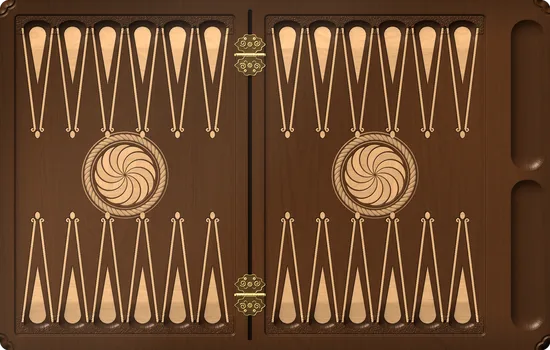
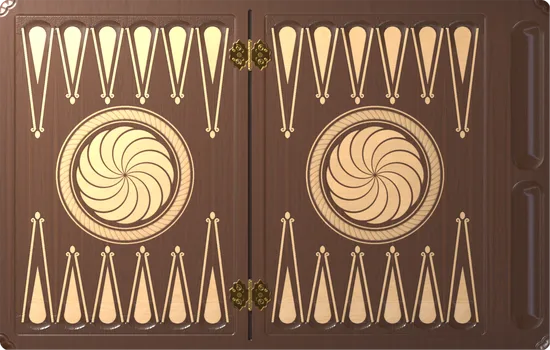
«Аревахач» из Blender в игре: вертикальные петли, крупные аревахачи, короткие средние пункты
Claude-Session: https://claude.ai/code/session_013vq6NREHT7txoK1nXmxN83

diff --git a/index.html b/index.html
@@ -327,7 +327,7 @@ svg#board{position:absolute;inset:0;width:100%;height:100%;display:block}
 (()=>{
 'use strict';
 const $=id=>document.getElementById(id);
-const APP_VERSION='19';   // совпадает с VERSION в sw.js; добавляется к адресам картинок, чтобы новые доски не брались из старого кэша
+const APP_VERSION='20';   // совпадает с VERSION в sw.js; добавляется к адресам картинок, чтобы новые доски не брались из старого кэша
 const NS='http://www.w3.org/2000/svg';
 const f2=v=>(+v).toFixed(1);
 

diff --git a/sw.js b/sw.js
@@ -1,5 +1,5 @@
 // Офлайн-кэш: страница, доски, звуки и шрифты кэшируются при установке.
-const V = '19';                 // = APP_VERSION в index.html
+const V = '20';                 // = APP_VERSION в index.html
 const VERSION = 'nardy-v' + V;
 const SHELL = [
   './',

diff --git a/tools/render_real.py b/tools/render_real.py
@@ -77,41 +77,41 @@ def rope_ring(cx, cy, r0, r1, n=44):
 
 
 def hinge(alb, h, metal, x, y):
-    """Литая бронзовая петля как на настоящих нардах: две фигурные пластины с волнистым краем,
-    литой рельеф (завитки, листья, розетка), винты со шлицем, ось-трубка с колпачками.
-    Выпуклое натёрто до блеска, в углублениях тёмная патина."""
+    """Литая бронзовая петля как на настоящих нардах: ось вертикально вдоль стыка половин, по обе стороны —
+    фигурные пластины с волнистым краем, литой рельеф (завитки, листья, розетка), винты со шлицем,
+    ось-трубка с колпачками. Выпуклое натёрто до блеска, в углублениях тёмная патина."""
     yy, xx = np.mgrid[0:H, 0:W] / S
     plate = np.zeros((H, W)); rel = np.zeros((H, W))
     for s in (-1, 1):
-        cy = y + s * 21
-        u, v = (xx - x) / 27, (yy - cy) / 19
-        r = np.hypot(u, v); a = np.arctan2(v, u)
+        cx = x + s * 21
+        u, v = (xx - cx) / 19, (yy - y) / 27
+        r = np.hypot(u, v); a = np.arctan2(u, v)
         edge = 1 + .07 * np.cos(a * 10) + .12 * np.cos(a * 2) ** 2          # фигурный волнистый край
-        pm = np.clip((edge - r) * 30, 0, 1) * (s * (yy - y) > 2.5)
+        pm = np.clip((edge - r) * 30, 0, 1) * (s * (xx - x) > 2.5)
         plate = np.maximum(plate, pm)
-        # рельеф: бортик по краю, розетка в центре, по бокам завитки с листьями
+        # рельеф: бортик по краю, розетка в центре, сверху и снизу завитки с листьями
         border = np.exp(-((edge - r - .07) / .035) ** 2) * pm
         ros = np.zeros((H, W))
         for k in range(8):
             ang = k * math.pi / 4
-            ros = np.maximum(ros, np.clip(1 - np.hypot((xx - x - 3.6 * math.cos(ang)) / 2.2, (yy - cy - 3.6 * math.sin(ang)) / 2.2), 0, 1))
-        ros = np.maximum(ros, np.clip(1 - np.hypot(xx - x, yy - cy) / 1.8, 0, 1))
+            ros = np.maximum(ros, np.clip(1 - np.hypot((xx - cx - 3.6 * math.cos(ang)) / 2.2, (yy - y - 3.6 * math.sin(ang)) / 2.2), 0, 1))
+        ros = np.maximum(ros, np.clip(1 - np.hypot(xx - cx, yy - y) / 1.8, 0, 1))
         scroll = np.zeros((H, W))
-        for sx in (-1, 1):
-            sp = spiral(x + sx * 14, cy + s * 2, 6.5, 1.5, (0 if sx > 0 else math.pi) + s * .6, -sx * s)
+        for sy in (-1, 1):
+            sp = spiral(cx + s * 2, y + sy * 14, 6.5, 1.5, (math.pi / 2 if sy > 0 else -math.pi / 2) + s * .6, sy * s)
             scroll = np.maximum(scroll, lines([sp], 1.6, aa=.5))
-            leaf = [(x + sx * (5 + 7 * t), cy - s * (6 + 3 * math.sin(math.pi * t)) ) for t in np.linspace(0, 1, 10)]
+            leaf = [(cx - s * (6 + 3 * math.sin(math.pi * t)), y + sy * (5 + 7 * t)) for t in np.linspace(0, 1, 10)]
             scroll = np.maximum(scroll, lines([leaf], 1.3, aa=.5))
         screws = np.zeros((H, W))
-        for sx in (-9, 9):
-            sy = cy + s * 11
-            sc = circle(x + sx, sy, 2.6)
-            slot = lines([[(x + sx - 1.9, sy - 1.9), (x + sx + 1.9, sy + 1.9)], [(x + sx - 1.9, sy + 1.9), (x + sx + 1.9, sy - 1.9)]], .55, aa=.3)
+        for sy in (-9, 9):
+            sx = cx + s * 11
+            sc = circle(sx, y + sy, 2.6)
+            slot = lines([[(sx - 1.9, y + sy - 1.9), (sx + 1.9, y + sy + 1.9)], [(sx - 1.9, y + sy + 1.9), (sx + 1.9, y + sy - 1.9)]], .55, aa=.3)
             screws = np.maximum(screws, sc * (1 - slot * .8))
         rel += pm * (1.2 + border * 1.4 + ros * 1.6 + scroll * 1.4 + screws * 1.8)
-    knuckle = np.clip(1 - np.abs(yy - y) / 3.6, 0, 1) * (np.abs(xx - x) < 29)
-    seg = (np.abs(((xx - x) / 10.5) % 1 - .5) < .03) * knuckle
-    caps = (np.abs(np.abs(xx - x) - 30) < 1.6) * (np.abs(yy - y) < 2.6)
+    knuckle = np.clip(1 - np.abs(xx - x) / 3.6, 0, 1) * (np.abs(yy - y) < 29)
+    seg = (np.abs(((yy - y) / 10.5) % 1 - .5) < .03) * knuckle
+    caps = (np.abs(np.abs(yy - y) - 30) < 1.6) * (np.abs(xx - x) < 2.6)
     m = np.clip(np.maximum.reduce([plate, (knuckle > 0).astype(float), caps.astype(float)]), 0, 1)
     rel = rel + np.sqrt(knuckle) * 4.2 - seg * 1.2 + caps * 3.5
     rel = ndi.gaussian_filter(rel, .5)
@@ -186,7 +186,7 @@ def board_arevakhach(layers=False):
     # пункты: инкрустация из светлого бука, выжженный контур
     drops, strips, curls, ovals = [], [], [], np.zeros((H, W))
     for i in range(24):
-        dr, st, cu, ov = point_shapes(ptX(i), is_top(i))
+        dr, st, cu, ov = point_shapes(ptX(i), is_top(i), 218 if i % 6 in (0, 5) else 150)   # длинные только крайние
         drops.append(dr); strips += st; curls += cu
         ovals = np.maximum(ovals, oval_mask(ov[0], ov[1], 4.6, 7.2))
     dm = polys(drops)
@@ -198,7 +198,7 @@ def board_arevakhach(layers=False):
     alb = alb * (1 - burn[..., None] * .8)
     # аревахач в центре половины: лопасти — светлый бук, между ними тонкие тёмные линии; вокруг витой жгут
     for cx in (250, 750):
-        sl, union, petals, angles = arevakhach_masks(cx, 350, 62, n=12, band=.022)
+        sl, union, petals, angles = arevakhach_masks(cx, 350, 99, n=12, band=.02)
         a = alb[sl]
         for k, pm in enumerate(petals):
             tex = (light if k % 2 else light_h)[sl] * (.96 + .06 * (k % 2))
@@ -206,12 +206,12 @@ def board_arevakhach(layers=False):
         alb[sl] = a
         lit = np.max(petals, axis=0)
         h[sl] -= np.clip(union - lit, 0, 1) * .6
-        rope, rb = rope_ring(cx, 350, 70, 82)
+        rope, rb = rope_ring(cx, 350, 112, 131, n=64)
         alb = put(alb, rb * .85, light)
         groove = rb * (1 - np.clip(rope * 1.6, 0, 1))
         alb = alb * (1 - groove[..., None] * .75)
         h += rope * 1.2
-        for r0, r1 in ((66, 67.4), (85, 86.4)):
+        for r0, r1 in ((105.6, 107.8), (135.5, 137.8)):
             ring = np.clip(circle(cx, 350, r1) - circle(cx, 350, r0), 0, 1)
             alb = put(alb, ring, light); h -= ring * .2
     # латунные петли

diff --git a/tools/blender_board.py b/tools/blender_board.py
@@ -76,9 +76,9 @@ ld = tex(nt, os.path.join(TEX, 'white_maple_veneer.jpg')); Lk(mp2.outputs['Vecto
 CA, CB, CO = 6, 7, 2
 # морилка: орех темнее и теплее, светлый бук — тёплый кремовый
 st = N.new('ShaderNodeMix'); st.data_type = 'RGBA'; st.blend_type = 'MULTIPLY'; st.inputs['Factor'].default_value = 1
-Lk(wd.outputs['Color'], st.inputs[CA]); st.inputs[CB].default_value = (.34, .19, .075, 1)
+Lk(wd.outputs['Color'], st.inputs[CA]); st.inputs[CB].default_value = (.31, .20, .11, 1)
 lt = N.new('ShaderNodeMix'); lt.data_type = 'RGBA'; lt.blend_type = 'MULTIPLY'; lt.inputs['Factor'].default_value = 1
-Lk(ld.outputs['Color'], lt.inputs[CA]); lt.inputs[CB].default_value = (.80, .56, .36, 1)
+Lk(ld.outputs['Color'], lt.inputs[CA]); lt.inputs[CB].default_value = (.78, .58, .40, 1)
 # доли и затемнения из масок: цвет = орех·R + бук·G
 def mul(a, s):
     m = N.new('ShaderNodeMix'); m.data_type = 'RGBA'; m.blend_type = 'MULTIPLY'; m.inputs['Factor'].default_value = 1
